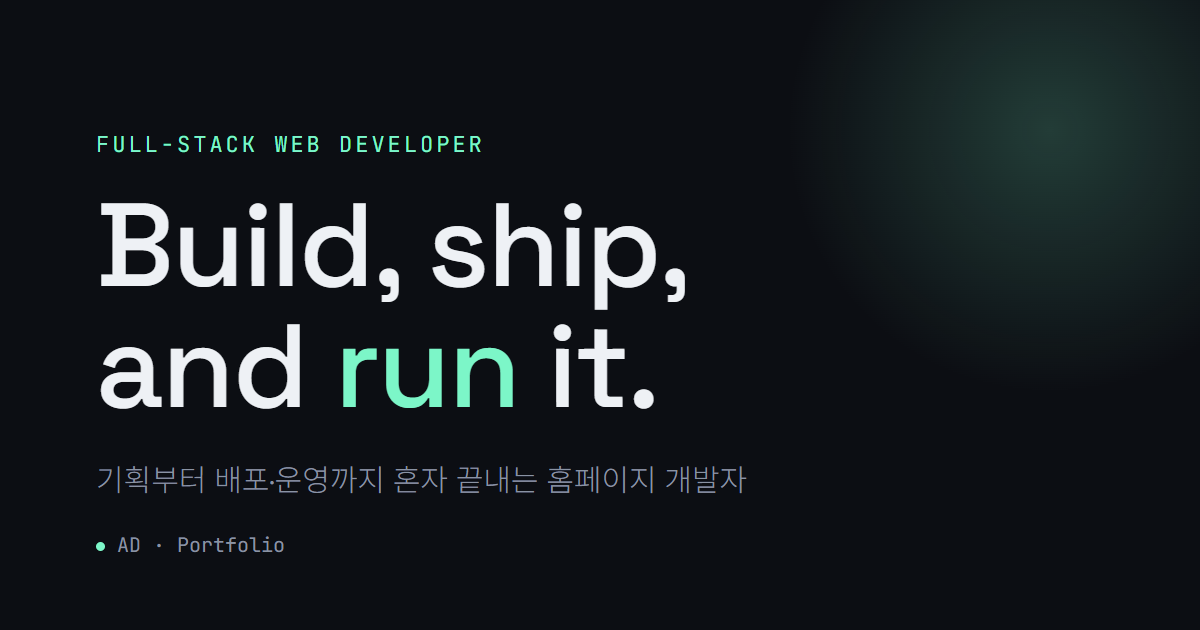
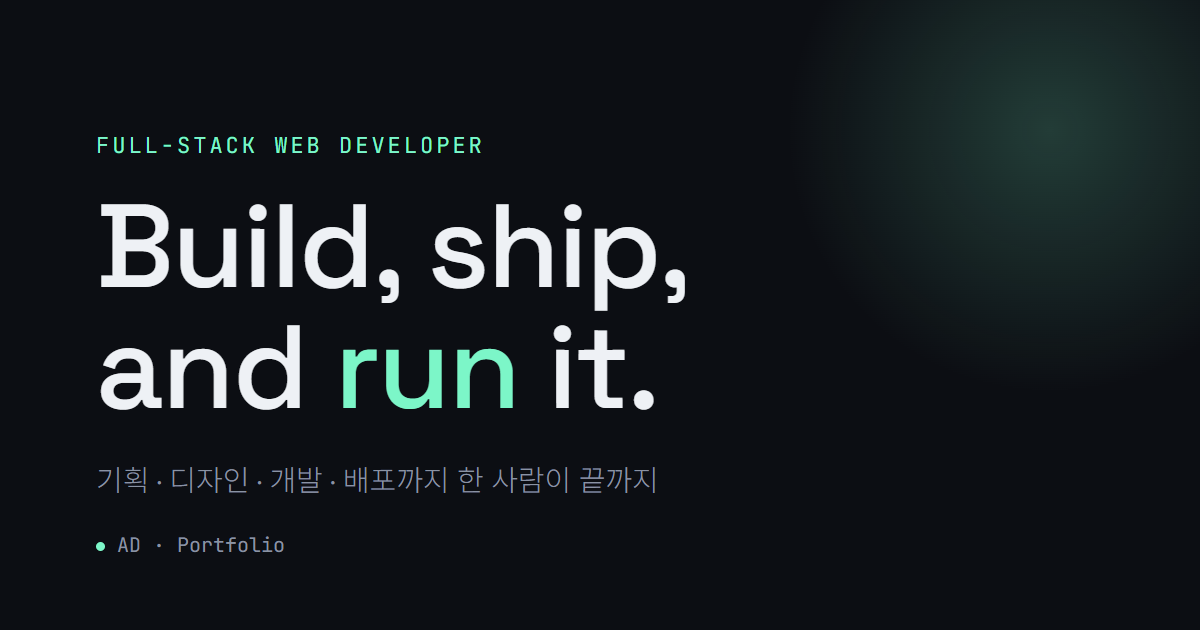
copy: OG 이미지·설명 톤 정리 — '혼자 끝내는' 제거하고 '기획·디자인·개발·배포까지 한 사람이 끝까지'로 (본문 톤 통일)

diff --git a/index.html b/index.html
@@ -4,13 +4,13 @@
 <meta charset="utf-8">
 <meta name="viewport" content="width=device-width, initial-scale=1">
 <title>AD — Full-Stack Web Developer · Portfolio</title>
-<meta name="description" content="기획·디자인·개발·배포·운영까지 혼자 끝내는 홈페이지 풀스택 개발자 AD의 포트폴리오.">
+<meta name="description" content="기획 · 디자인 · 개발 · 배포까지 직접 맡는 풀스택 개발자 AD의 포트폴리오.">
 <link rel="canonical" href="https://minjunbyeon-netizen.github.io/service-idcard/">
 <link rel="icon" href="favicon.svg" type="image/svg+xml">
 <meta name="theme-color" content="#0c0e13">
 <meta property="og:type" content="website">
 <meta property="og:title" content="AD — Full-Stack Web Developer">
-<meta property="og:description" content="기획부터 배포·운영까지 혼자 끝내는 홈페이지 개발자.">
+<meta property="og:description" content="기획 · 디자인 · 개발 · 배포까지 한 사람이 끝까지 맡는 웹 개발자.">
 <meta property="og:image" content="https://minjunbyeon-netizen.github.io/service-idcard/og.png">
 <meta property="og:url" content="https://minjunbyeon-netizen.github.io/service-idcard/">
 <meta name="twitter:card" content="summary_large_image">